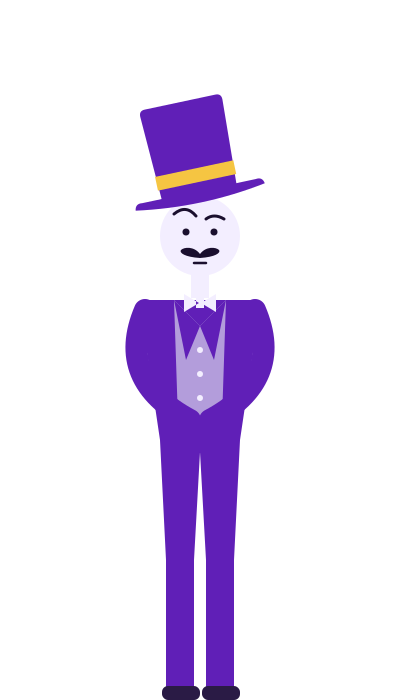
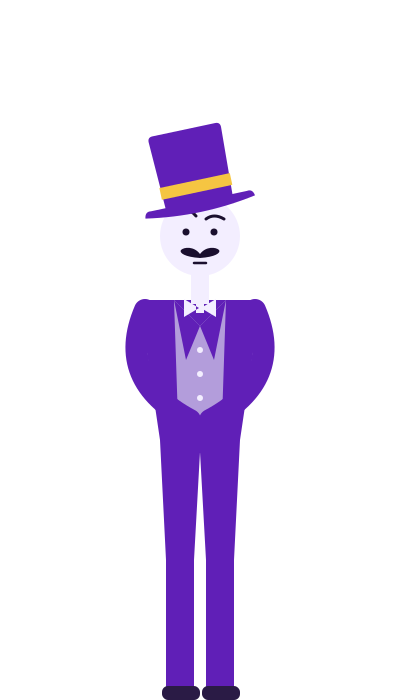
Dandy Man: smaller lower hat, bow tie lowered, cane centred in hand
Claude-Session: https://claude.ai/code/session_01MsLwUh4sHtdYL5twesgV4U

Changed region(s): [[0.33, 0.12, 0.66, 0.33], [0.45, 0.42, 0.54, 0.45]]

diff --git a/cast/dandy-man/gen_candidates.py b/cast/dandy-man/gen_candidates.py
@@ -26,14 +26,16 @@ SHADE = "#3E1480"  # darker than primary for trousers/shoes; 60% of the figure s
 
 
 def hat(tilt_deg, tall=True):
-    # Classic top hat: straight crown with a slight flare at the top, flat-ish brim. Sits on y=196.
-    top = 100 if tall else 128
-    crown = f"M162 196 L158 {top + 6} Q158 {top} 164 {top} L236 {top} Q242 {top} 242 {top + 6} L238 196 Z"
-    brim = "M134 197 Q135 190 142 191 L258 191 Q265 190 266 197 Q200 208 134 197 Z"
+    # Classic top hat, sized to the head: crown 68 wide at the base, 78 tall; brim 112 wide.
+    # Sits lower on the head (brim line y=206) so it covers the top of the skull.
+    base = 206
+    top = base - 78 if tall else base - 56
+    crown = f"M166 {base} L163 {top + 5} Q163 {top} 168 {top} L232 {top} Q237 {top} 237 {top + 5} L234 {base} Z"
+    brim = f"M144 {base + 1} Q145 {base - 6} 151 {base - 5} L249 {base - 5} Q255 {base - 6} 256 {base + 1} Q200 {base + 11} 144 {base + 1} Z"
     return f"""
-  <g transform="rotate({tilt_deg} 200 196)">
+  <g transform="rotate({tilt_deg} 200 {base})">
     <path d="{crown}" fill="{PRIMARY}"/>
-    <rect x="160" y="168" width="80" height="14" fill="{GOLD}"/>
+    <rect x="164" y="{base - 26}" width="72" height="12" fill="{GOLD}"/>
     <path d="{brim}" fill="{PRIMARY}"/>
   </g>"""
 
@@ -50,7 +52,7 @@ def head(brow="flat"):
   <path d="M206 219 Q214 213 224 219" stroke="{BG}" stroke-width="3" fill="none" stroke-linecap="round"/>
   <path d="M200 254 C194 246 184 247 181 250 C179 253 185 257 200 258 C215 257 221 253 219 250 C216 247 206 246 200 254 Z" fill="{BG}"/>
   <line x1="194" y1="263" x2="206" y2="263" stroke="{BG}" stroke-width="2.5" stroke-linecap="round"/>
-  <rect x="191" y="270" width="18" height="28" fill="{TEXT}"/>"""
+  <rect x="191" y="270" width="18" height="34" fill="{TEXT}"/>"""
 
 
 def body(arms="cane", slim=1.0):
@@ -67,8 +69,8 @@ def body(arms="cane", slim=1.0):
         f"M{200 - 26} 300 L{200 - 14} 360 L200 326 Z M{200 + 26} 300 L{200 + 14} 360 L200 326 Z"
     )
     collar = ""
-    cravat = (f"M199 303 L184 294 L184 312 Z M201 303 L216 294 L216 312 Z "
-              f"M196 298 L204 298 L204 308 L196 308 Z")
+    cravat = (f"M199 308 L184 299 L184 317 Z M201 308 L216 299 L216 317 Z "
+              f"M196 303 L204 303 L204 313 L196 313 Z")
     buttons = "".join(
         f'<circle cx="200" cy="{y}" r="3" fill="{TEXT}"/>' for y in (350, 374, 398)
     )
@@ -84,9 +86,10 @@ def body(arms="cane", slim=1.0):
   <circle cx="{200 - sw - 18}" cy="444" r="12" fill="{TEXT}"/>
   <path d="M{200 + sw} 310 L{200 + sw + 18} 420" stroke="{PRIMARY}" stroke-width="24" stroke-linecap="round" fill="none"/>
   <circle cx="{200 + sw + 22}" cy="434" r="12" fill="{TEXT}"/>
-  <path d="M{200 + sw + 30} 424 L{200 + sw + 38} 690" stroke="{SOFT}" stroke-width="7" stroke-linecap="round" fill="none"/>
-  <circle cx="{200 + sw + 30}" cy="418" r="11" fill="{GOLD}"/>
-  <rect x="{200 + sw + 34}" y="682" width="9" height="14" rx="3" fill="{SOFT}"/>"""
+  <path d="M{200 + sw + 22} 424 L{200 + sw + 30} 690" stroke="{SOFT}" stroke-width="7" stroke-linecap="round" fill="none"/>
+  <circle cx="{200 + sw + 22}" cy="434" r="12" fill="{TEXT}"/>
+  <circle cx="{200 + sw + 22}" cy="416" r="11" fill="{GOLD}"/>
+  <rect x="{200 + sw + 26}" y="682" width="9" height="14" rx="3" fill="{SOFT}"/>"""
     elif arms == "behind":
         arms_svg = f"""
   <path d="M{200 - sw} 310 Q{200 - sw - 30} 380 {200 - 10} 420" stroke="{PRIMARY}" stroke-width="22" stroke-linecap="round" fill="none"/>
